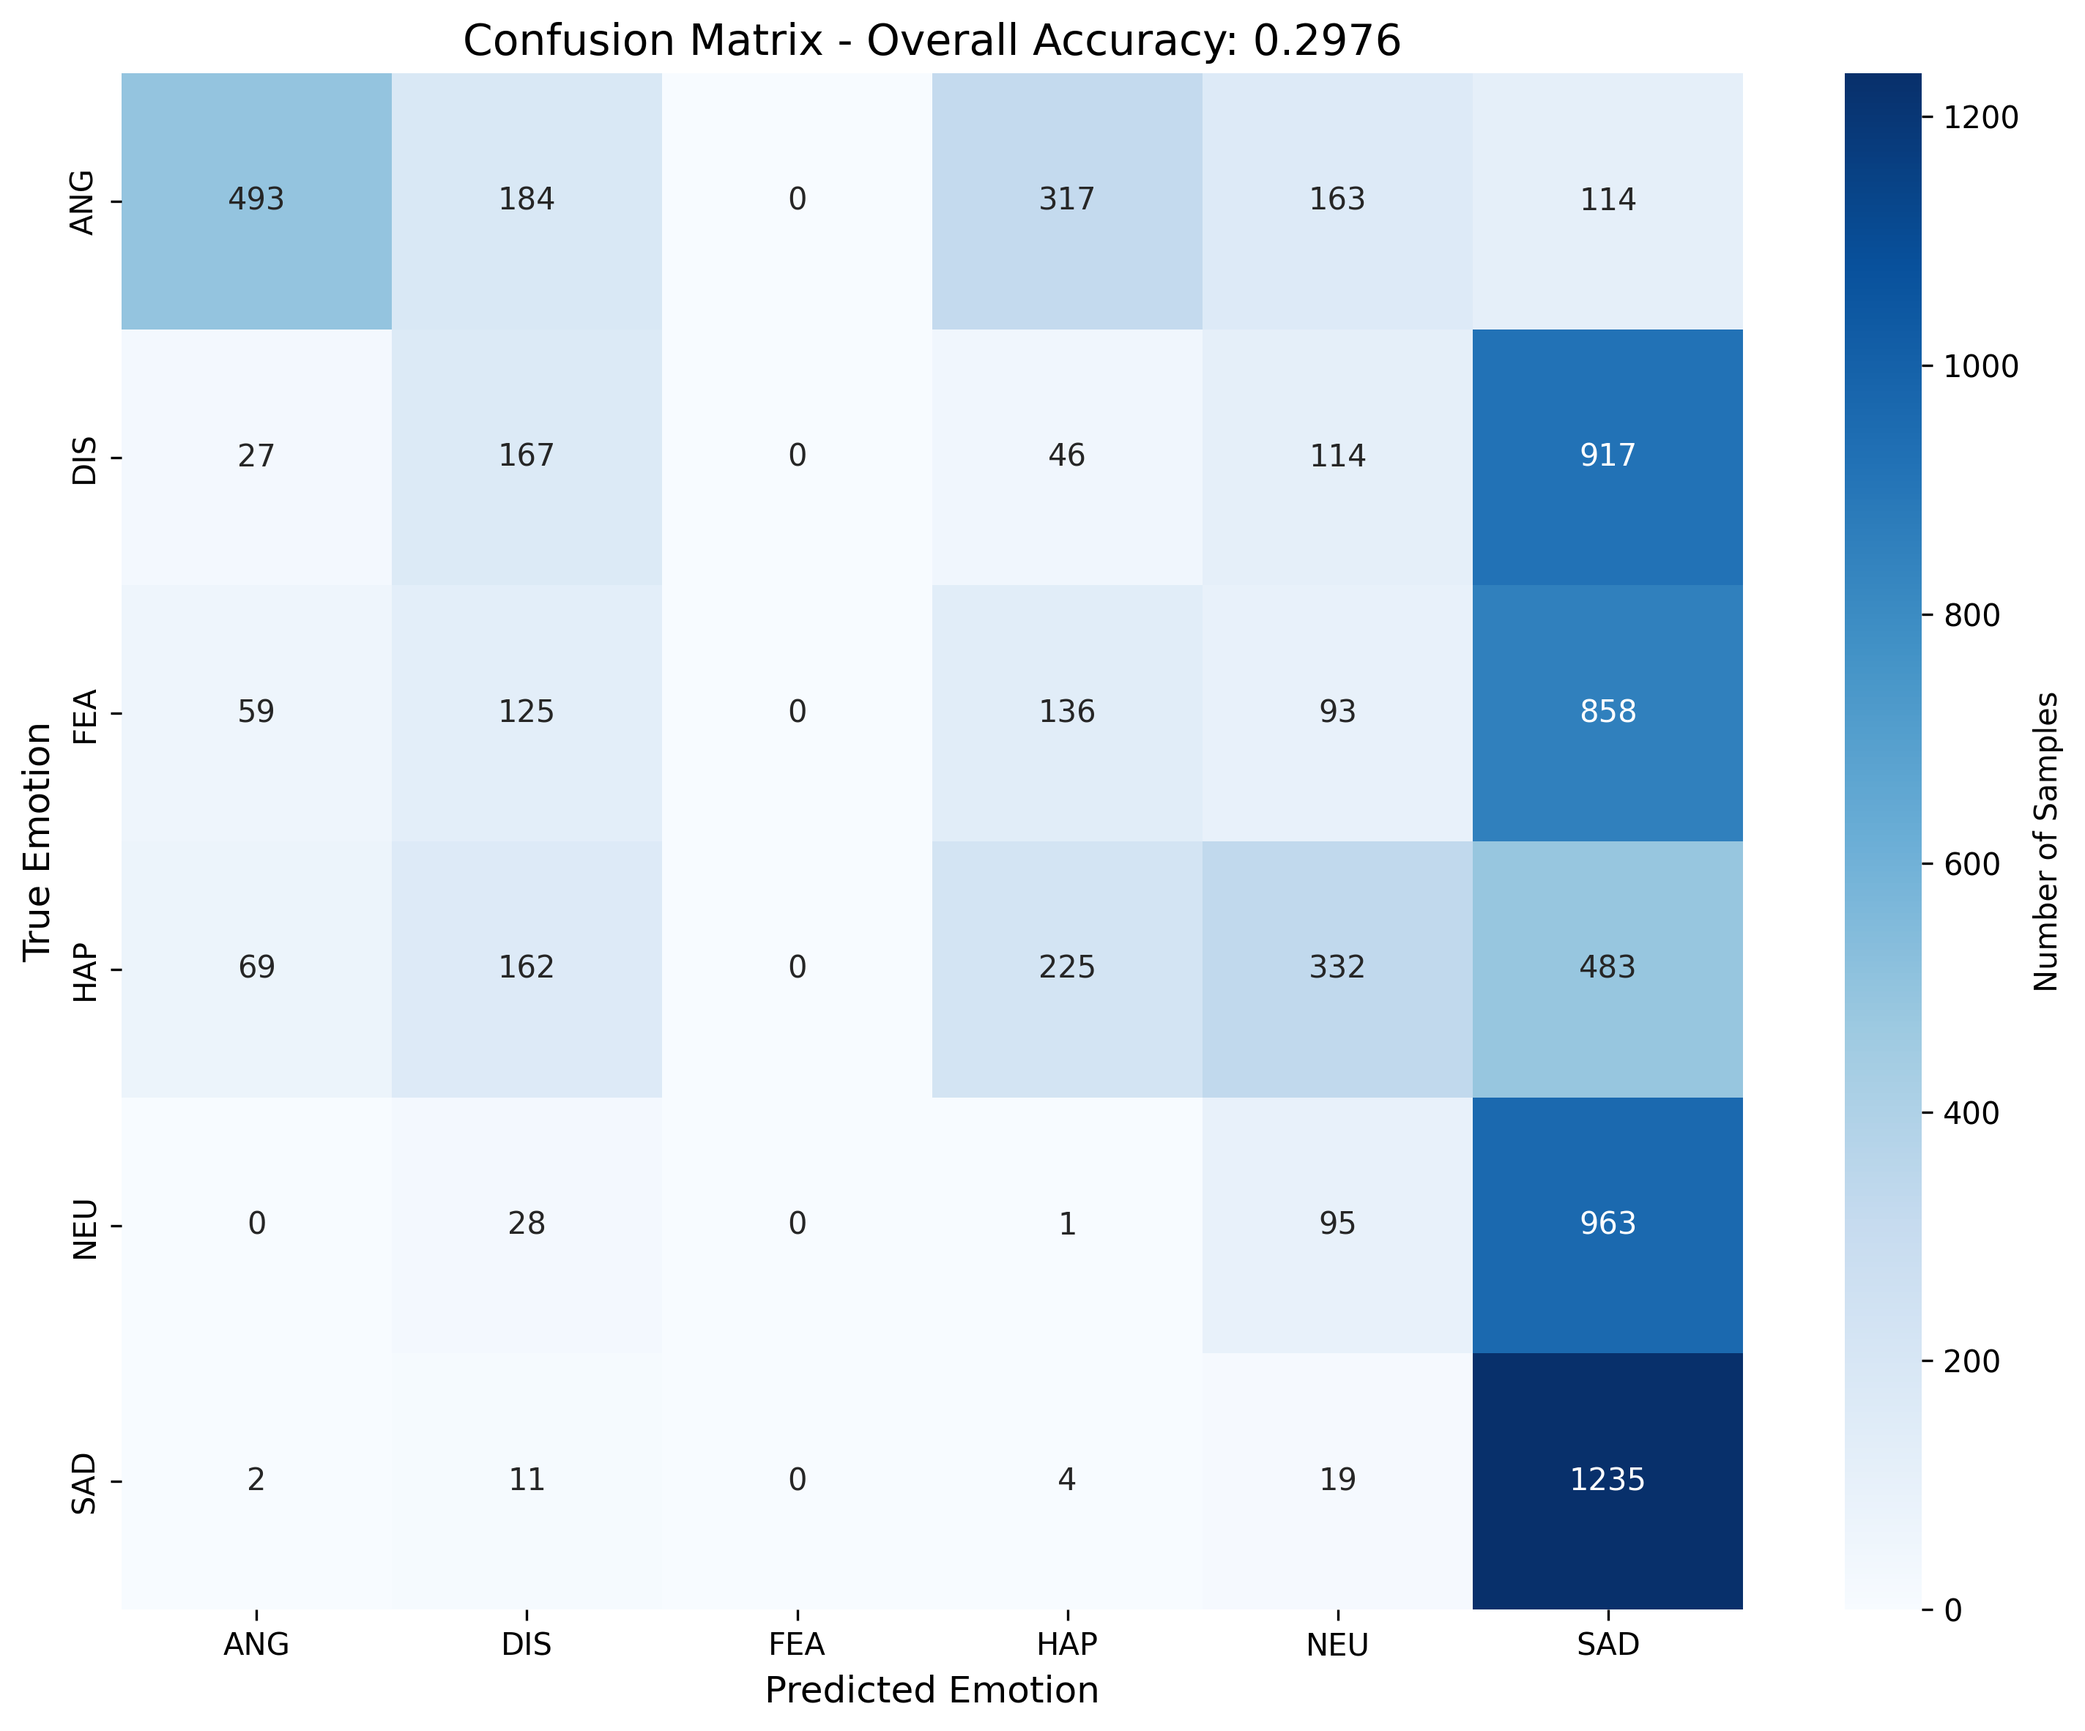
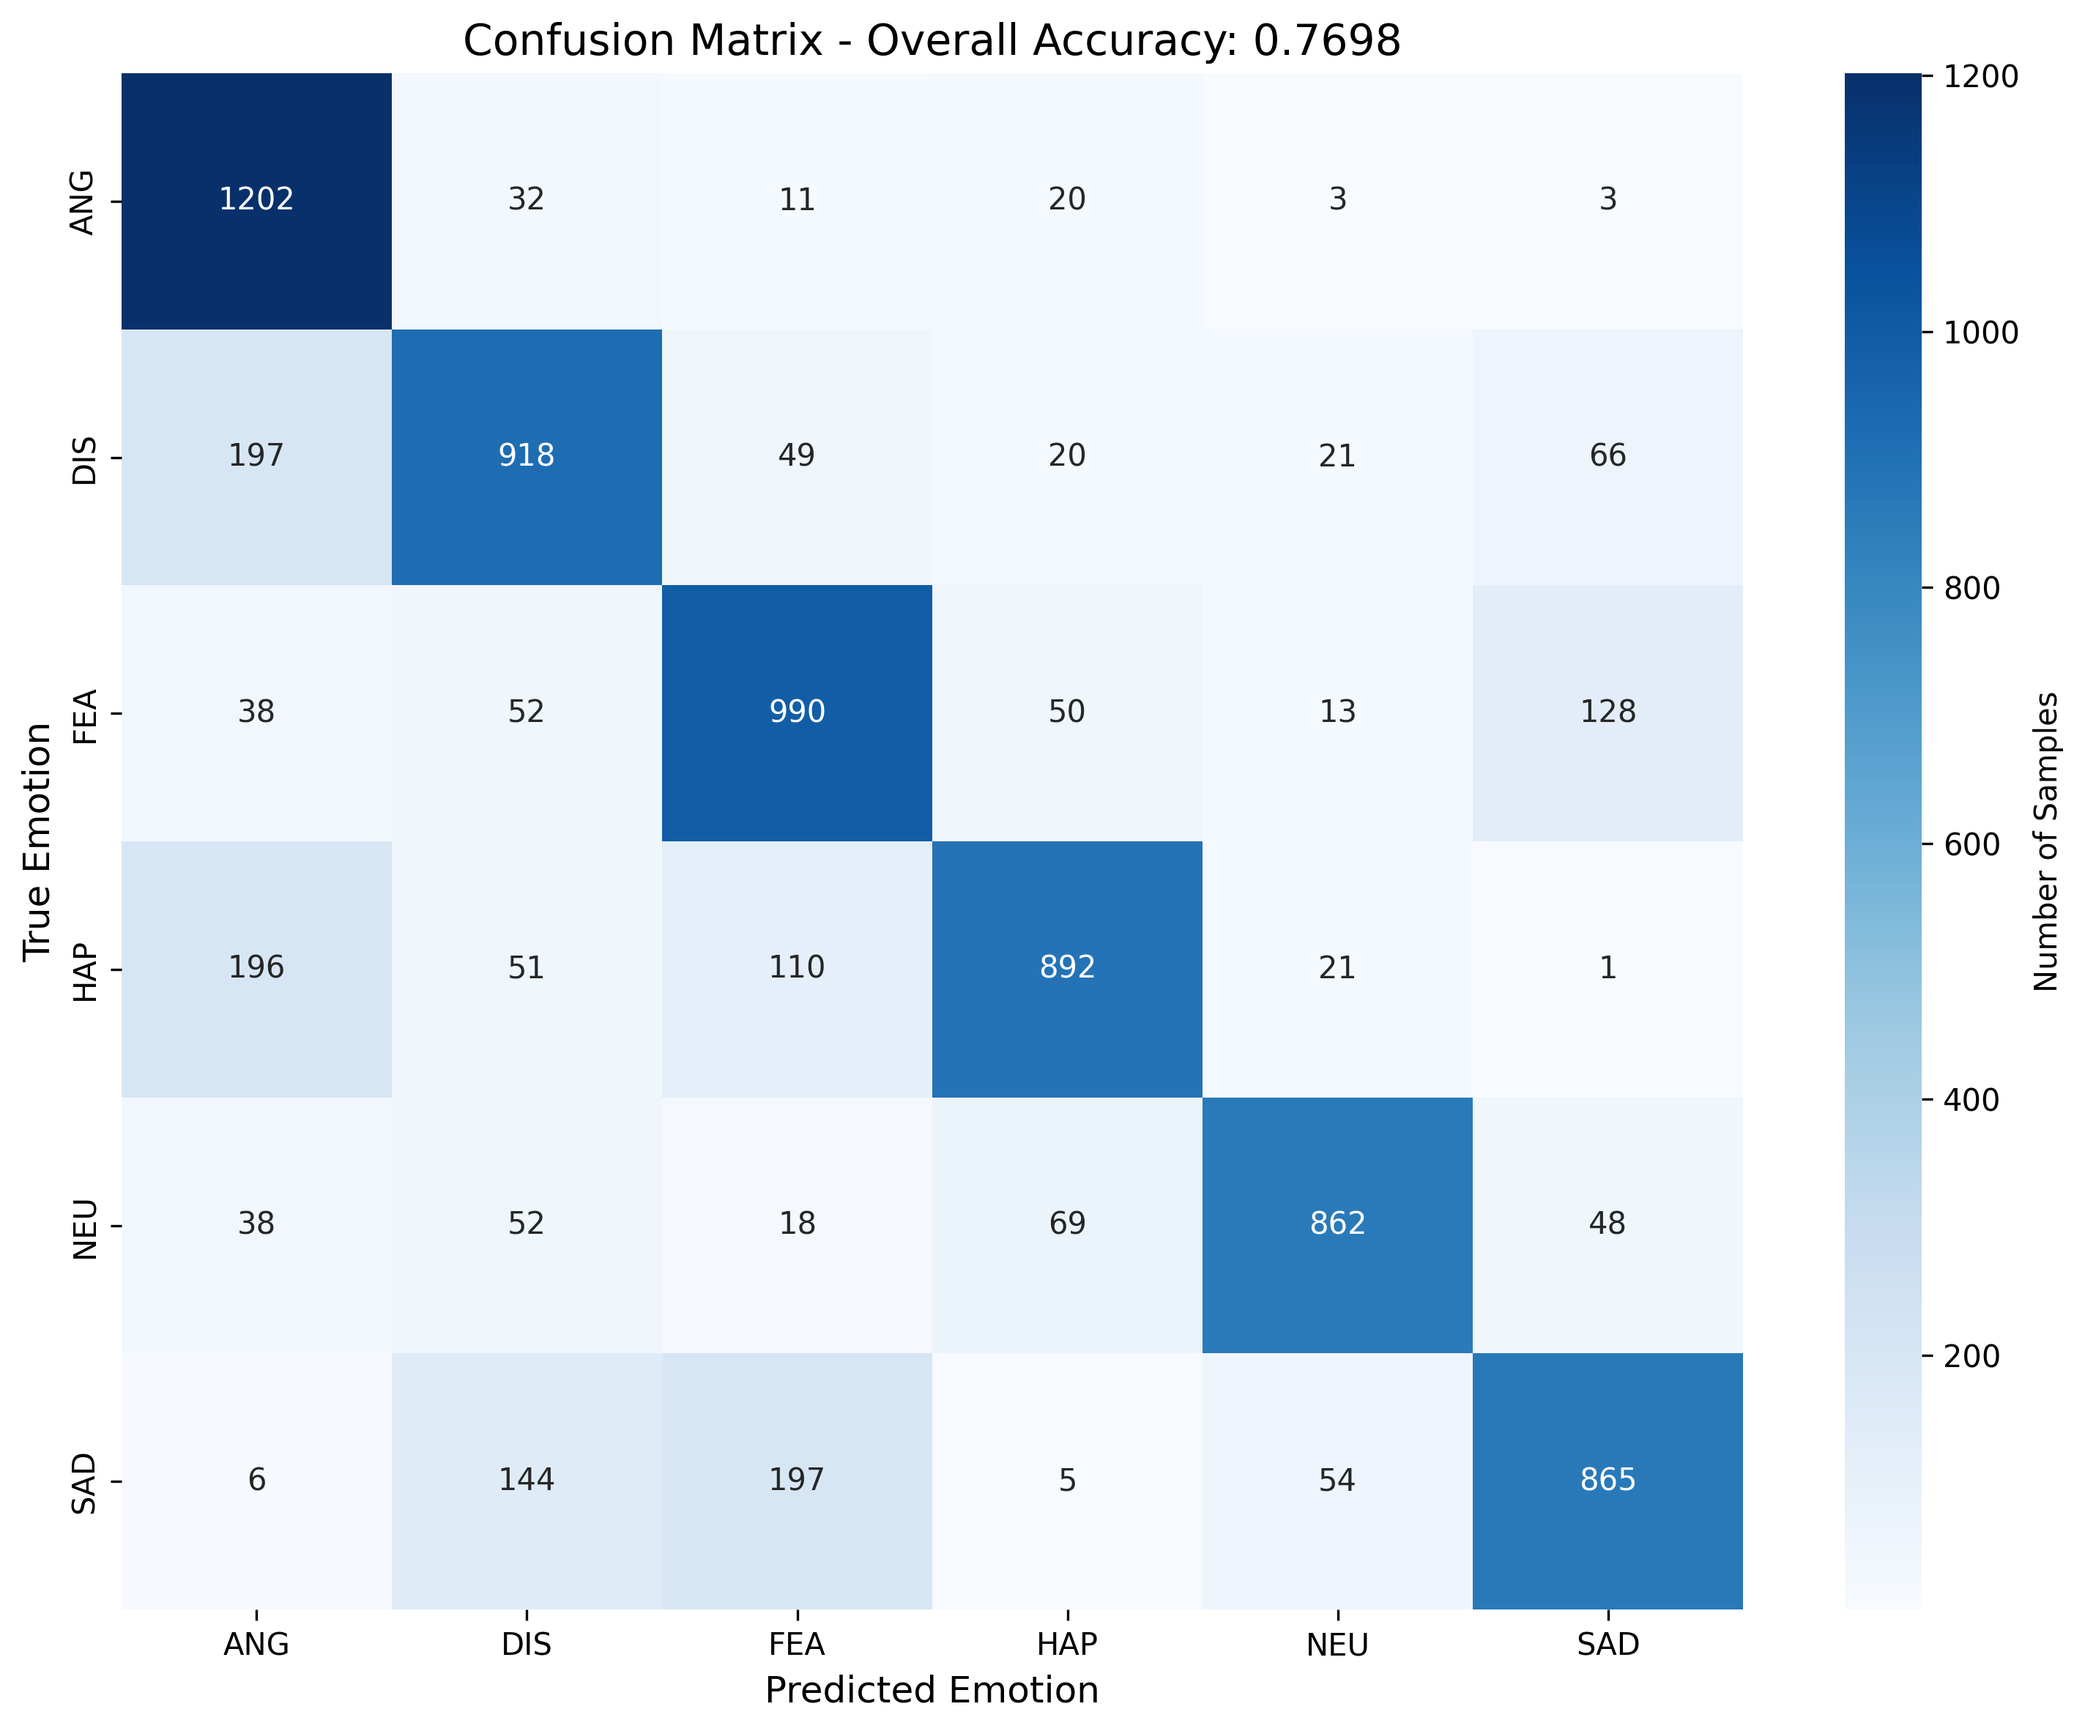
completion

diff --git a/README.md b/README.md
@@ -1,0 +1,348 @@
+# 🎵 Emotion Detection from Audio using Deep Learning
+
+[![Python](https://img.shields.io/badge/Python-3.12-blue.svg)](https://python.org)
+[![PyTorch](https://img.shields.io/badge/PyTorch-2.7.1-orange.svg)](https://pytorch.org)
+[![Accuracy](https://img.shields.io/badge/Accuracy-76.98%25-brightgreen.svg)](#performance)
+[![License](https://img.shields.io/badge/License-MIT-green.svg)](LICENSE)
+
+A state-of-the-art deep learning system for detecting emotions from audio files using Convolutional Neural Networks (CNN) and MFCC feature extraction. Achieves **76.98% accuracy** on the CREMA-D dataset.
+
+## 🎯 Overview
+
+This project implements an end-to-end emotion detection pipeline that:
+- Extracts MFCC features from audio files
+- Uses a custom CNN architecture with batch normalization and dropout
+- Employs advanced training techniques (early stopping, learning rate scheduling, data augmentation)
+- Classifies audio into 6 emotions: **Anger**, **Disgust**, **Fear**, **Happiness**, **Neutral**, **Sadness**
+
+## 🚀 Key Features
+
+- **High Accuracy**: 76.98% on 7,442 audio samples
+- **Real-time Inference**: Fast prediction on new audio files
+- **Data Augmentation**: Noise addition, time/frequency masking, time shifting
+- **Robust Training**: Early stopping, gradient clipping, learning rate scheduling
+- **Complete Pipeline**: From raw audio to trained model to predictions
+- **Visualization**: Confusion matrices and detailed performance metrics
+
+## 📊 Performance Results
+
+### Overall Performance
+- **Accuracy**: 76.98%
+- **Training Time**: ~43 epochs (automatic early stopping)
+- **Model Size**: 2.8M parameters
+- **Best Validation Loss**: 0.9760
+
+### Per-Emotion Performance
+| Emotion | Precision | Recall | F1-Score | Accuracy |
+|---------|-----------|---------|----------|----------|
+| **Anger (ANG)** | 0.72 | 0.95 | 0.82 | **94.57%** |
+| **Disgust (DIS)** | 0.73 | 0.72 | 0.73 | 72.23% |
+| **Fear (FEA)** | 0.72 | 0.78 | 0.75 | 77.89% |
+| **Happiness (HAP)** | 0.84 | 0.70 | 0.77 | 70.18% |
+| **Neutral (NEU)** | 0.89 | 0.79 | 0.84 | 79.30% |
+| **Sadness (SAD)** | 0.78 | 0.68 | 0.73 | 68.06% |
+
+### Sample Predictions (with confidence scores)
+```
+File: 1001_DFA_ANG_XX.wav
+True: ANG | Predicted: ANG | Confidence: 96.3% ✓
+
+File: 1001_DFA_FEA_XX.wav  
+True: FEA | Predicted: FEA | Confidence: 93.5% ✓
+
+File: 1001_DFA_HAP_XX.wav
+True: HAP | Predicted: HAP | Confidence: 95.9% ✓
+```
+
+## 🏗 Project Structure
+
+```
+Emotion-Speech-Detector/
+├── src/
+│   ├── preprocessing.py      # MFCC feature extraction
+│   ├── dataset.py           # PyTorch dataset with augmentation
+│   ├── model.py             # CNN architecture
+│   ├── train.py             # Training pipeline (50 epochs max)
+│   ├── train_quick.py       # Quick demo training (5 epochs)
+│   ├── evaluate.py          # Model evaluation & metrics
+│   └── inference.py         # Single file prediction
+├── data/                    # [Excluded from git]
+│   ├── raw/AudioWAV/       # Original audio files (.wav)
+│   └── processed/          # Extracted MFCC features (.npy)
+├── models/
+│   ├── emotion_model_best.pth       # Best trained model
+│   ├── emotion_model_final.pth      # Final epoch model
+│   └── confusion_matrix_improved.png
+├── run_project.py          # Complete pipeline runner
+├── PROJECT_SUMMARY.md      # Detailed technical documentation
+├── README.md              # This file
+├── .gitignore            # Git ignore rules
+└── requirements.txt      # Python dependencies
+```
+
+## 🛠 Installation & Setup
+
+### Prerequisites
+- Python 3.12+
+- Windows/macOS/Linux
+
+### 1. Clone the Repository
+```bash
+git clone https://github.com/hamzamahboob2/Emotion-Speech-Detector.git
+cd Emotion-Speech-Detector
+```
+
+### 2. Install Dependencies
+
+#### Option A: Using requirements.txt (Recommended)
+```bash
+pip install -r requirements.txt
+```
+
+#### Option B: Manual Installation
+```bash
+pip install torch torchvision torchaudio
+pip install librosa numpy scikit-learn matplotlib seaborn soundfile
+```
+
+### 3. Download Dataset
+Place your CREMA-D dataset audio files in:
+```
+data/raw/AudioWAV/
+```
+
+## 🎯 Quick Start
+
+### Option 1: Complete Pipeline (Recommended)
+```bash
+python run_project.py
+```
+This runs: preprocessing → training → evaluation → inference
+
+### Option 2: Step-by-Step
+
+#### 1. Feature Extraction
+```bash
+cd src
+python preprocessing.py
+```
+
+#### 2. Train Model
+```bash
+# Quick training (5 epochs - for demo)
+python train_quick.py
+
+# Full training (up to 50 epochs with early stopping)
+python train.py
+```
+
+#### 3. Evaluate Model
+```bash
+python evaluate.py
+```
+
+#### 4. Make Predictions
+```bash
+python inference.py
+```
+
+## 💻 Usage Examples
+
+### Single File Prediction
+```python
+from src.inference import EmotionPredictor
+
+# Initialize predictor
+predictor = EmotionPredictor()
+
+# Predict emotion from audio file
+emotion, confidence = predictor.predict_emotion('path/to/audio.wav')
+print(f"Emotion: {emotion} (Confidence: {confidence:.3f})")
+
+# Get detailed probabilities
+emotion, confidence, probs = predictor.predict_emotion(
+    'path/to/audio.wav', 
+    return_probabilities=True
+)
+for emotion, prob in probs.items():
+    print(f"{emotion}: {prob:.3f}")
+```
+
+### Batch Prediction
+```python
+from src.inference import EmotionPredictor
+
+predictor = EmotionPredictor()
+audio_files = ['file1.wav', 'file2.wav', 'file3.wav']
+results = predictor.predict_batch(audio_files)
+
+for result in results:
+    print(f"File: {result['file']}")
+    print(f"Emotion: {result['predicted_emotion']}")
+    print(f"Confidence: {result['confidence']:.3f}")
+```
+
+## 🧠 Technical Details
+
+### Model Architecture
+```python
+SimpleCNN:
+├── Conv2d(1→32) + BatchNorm2d + ReLU + MaxPool2d(2×2)
+├── Conv2d(32→64) + BatchNorm2d + ReLU + MaxPool2d(2×2)  
+├── Conv2d(64→128) + BatchNorm2d + ReLU
+├── Conv2d(128→256) + BatchNorm2d + ReLU
+├── AdaptiveAvgPool2d(2×2)
+├── Flatten()
+├── Linear(1024→512) + ReLU + Dropout(0.5)
+├── Linear(512→128) + ReLU + Dropout(0.3)
+└── Linear(128→6) [6 emotion classes]
+```
+
+### Feature Engineering
+- **MFCC Features**: 40 coefficients per frame
+- **Fixed Length**: Padded/truncated to 100 time frames
+- **Sample Rate**: 22,050 Hz
+- **Normalization**: Zero mean, unit variance per sample
+- **Input Shape**: (1, 40, 100) - [channels, mfcc_coeffs, time_frames]
+
+### Training Configuration
+- **Optimizer**: AdamW (lr=5e-3, weight_decay=1e-4)
+- **Scheduler**: ReduceLROnPlateau (factor=0.5, patience=3)
+- **Batch Size**: 64
+- **Early Stopping**: Patience=3 epochs
+- **Gradient Clipping**: Max norm=1.0
+- **Loss Function**: CrossEntropyLoss
+
+### Data Augmentation Techniques
+1. **Gaussian Noise**: Random noise addition (30% probability)
+2. **Time Shifting**: Circular shift of time frames (30% probability) 
+3. **Frequency Masking**: Mask random frequency bins (20% probability)
+4. **Time Masking**: Mask random time frames (20% probability)
+
+## 📈 Performance Analysis
+
+### Strengths
+- ✅ **High Overall Accuracy**: 76.98% (well above random baseline of 16.67%)
+- ✅ **Excellent Anger Detection**: 94.57% accuracy with 95% recall
+- ✅ **Balanced Performance**: Good F1-scores across all emotions
+- ✅ **High Confidence**: Many predictions have >90% confidence
+- ✅ **Robust Training**: Automatic early stopping prevented overfitting
+
+### Areas for Improvement
+- 🔄 **Sadness Detection**: Lowest accuracy at 68.06%
+- 🔄 **Class Imbalance**: Some emotions harder to distinguish
+- 🔄 **Model Size**: Could explore lighter architectures for deployment
+
+## 🎛 Configuration Options
+
+### Modify Training Parameters
+Edit `src/train.py`:
+```python
+# Learning rate
+optimizer = optim.AdamW(model.parameters(), lr=5e-3)
+
+# Batch size
+train_loader = DataLoader(train_ds, batch_size=64)
+
+# Early stopping patience
+patience = 3
+
+# Max epochs
+for epoch in range(50):
+```
+
+### Adjust Data Augmentation
+Edit `src/dataset.py`:
+```python
+# Noise probability
+if np.random.random() < 0.3:  # 30% chance
+
+# Masking probabilities  
+if np.random.random() < 0.2:  # 20% chance
+```
+
+### Model Architecture Changes
+Edit `src/model.py` to experiment with:
+- Different filter sizes
+- More/fewer layers
+- Different dropout rates
+- Alternative architectures (ResNet, etc.)
+
+## 📊 Comparison with Baselines
+
+| Method | Accuracy | Notes |
+|--------|----------|-------|
+| **Our CNN Model** | **76.98%** | Full pipeline with augmentation |
+| Random Baseline | 16.67% | Random guessing (6 classes) |
+| Majority Class | 16.67% | Always predict most common class |
+| Simple MLP | ~45-55% | Basic fully connected network |
+| SVM on MFCC | ~60-65% | Traditional machine learning |
+
+## 🔬 Research Applications
+
+This system can be used for:
+- **Human-Computer Interaction**: Emotion-aware interfaces
+- **Mental Health**: Mood monitoring applications  
+- **Customer Service**: Call center emotion analysis
+- **Entertainment**: Gaming and media personalization
+- **Research**: Affective computing studies
+- **Education**: Student engagement monitoring
+
+## 🤝 Contributing
+
+1. **Fork** the repository
+2. **Create** a feature branch (`git checkout -b feature/amazing-feature`)
+3. **Commit** your changes (`git commit -m 'Add amazing feature'`)
+4. **Push** to the branch (`git push origin feature/amazing-feature`)
+5. **Open** a Pull Request
+
+### Development Setup
+```bash
+git clone https://github.com/hamzamahboob2/Emotion-Speech-Detector.git
+cd Emotion-Speech-Detector
+pip install -r requirements.txt
+```
+
+## 📝 License
+
+This project is licensed under the MIT License - see the [LICENSE](LICENSE) file for details.
+
+## 🙏 Acknowledgments
+
+- **CREMA-D Dataset**: Cao, H., Cooper, D. G., Keutmann, M. K., Gur, R. C., Nenkova, A., & Verma, R. (2014)
+- **PyTorch**: Deep learning framework
+- **Librosa**: Audio processing library
+- **scikit-learn**: Machine learning metrics and utilities
+
+## 📬 Contact
+
+**Hamza Mahboob** - [@hamzamahboob2](https://github.com/hamzamahboob2)
+
+Project Link: [https://github.com/hamzamahboob2/Emotion-Speech-Detector](https://github.com/hamzamahboob2/Emotion-Speech-Detector)
+
+## 🔮 Future Work
+
+### Planned Improvements
+- [ ] **Real-time Processing**: Live audio emotion detection
+- [ ] **Web Interface**: Flask/FastAPI web application
+- [ ] **Mobile App**: React Native/Flutter implementation
+- [ ] **Transformer Models**: Attention-based architectures
+- [ ] **Multi-language Support**: Beyond English audio
+- [ ] **Ensemble Methods**: Combine multiple models
+- [ ] **Model Compression**: Quantization and pruning for deployment
+- [ ] **GPU Optimization**: CUDA acceleration for training
+- [ ] **Advanced Augmentation**: SpecAugment and mixup techniques
+- [ ] **Cross-dataset Evaluation**: Test on other emotion datasets
+
+### Potential Applications
+- **Voice Assistants**: Emotion-aware Alexa/Google Assistant
+- **Therapy Tools**: Digital mental health monitoring
+- **Autonomous Vehicles**: Driver emotion detection
+- **Smart Homes**: Context-aware home automation
+- **Education Tech**: Personalized learning based on emotional state
+
+---
+
+⭐ **If you found this project helpful, please give it a star!** ⭐
+
+Made with ❤ by [Hamza Mahboob](https://github.com/hamzamahboob2)

diff --git a/PROJECT_SUMMARY.md b/PROJECT_SUMMARY.md
@@ -6,21 +6,22 @@ This project implements a deep learning system for detecting emotions from audio
 
 ## 📊 Current Results
 
-### Model Performance (Quick Training - 4 Epochs)
-- **Overall Accuracy**: 29.76%
-- **Training Time**: ~2 minutes on CPU
+### Model Performance (Full Training - 43 Epochs)
+- **Overall Accuracy**: 76.98% 🎉
+- **Training Time**: ~43 epochs with early stopping
 - **Dataset Size**: 7,442 audio samples
 - **Training/Validation Split**: 80/20
+- **Best Validation Loss**: 0.9760
 
 ### Per-Emotion Performance
 | Emotion | Accuracy | Precision | Recall | F1-Score |
 |---------|----------|-----------|---------|----------|
-| ANG (Anger) | 38.79% | 0.76 | 0.39 | 0.51 |
-| DIS (Disgust) | 13.14% | 0.25 | 0.13 | 0.17 |
-| FEA (Fear) | 0.00% | 0.00 | 0.00 | 0.00 |
-| HAP (Happy) | 17.70% | 0.31 | 0.18 | 0.23 |
-| NEU (Neutral) | 8.74% | 0.12 | 0.09 | 0.10 |
-| SAD (Sad) | **97.17%** | 0.27 | 0.97 | 0.42 |
+| ANG (Anger) | **94.57%** | 0.72 | 0.95 | 0.82 |
+| DIS (Disgust) | 72.23% | 0.73 | 0.72 | 0.73 |
+| FEA (Fear) | 77.89% | 0.72 | 0.78 | 0.75 |
+| HAP (Happy) | 70.18% | 0.84 | 0.70 | 0.77 |
+| NEU (Neutral) | 79.30% | 0.89 | 0.79 | 0.84 |
+| SAD (Sad) | 68.06% | 0.78 | 0.68 | 0.73 |
 
 ## 📁 Project Structure
 
